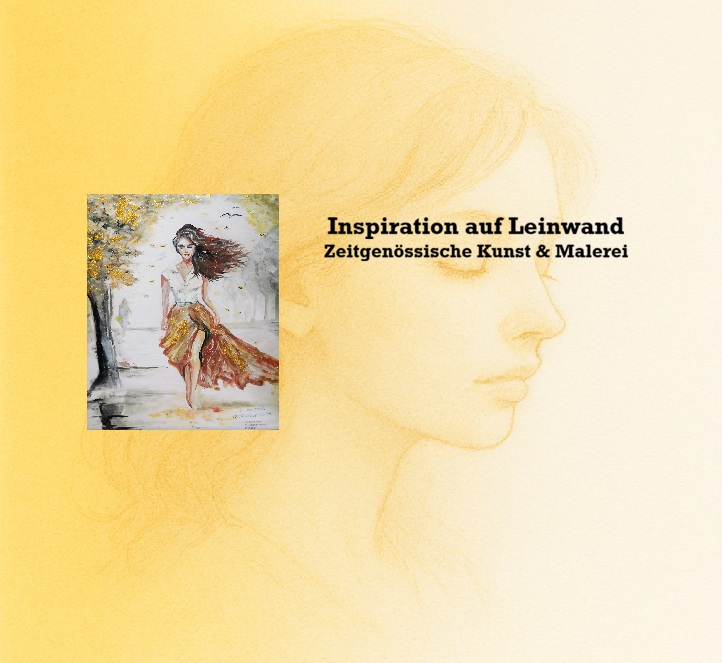
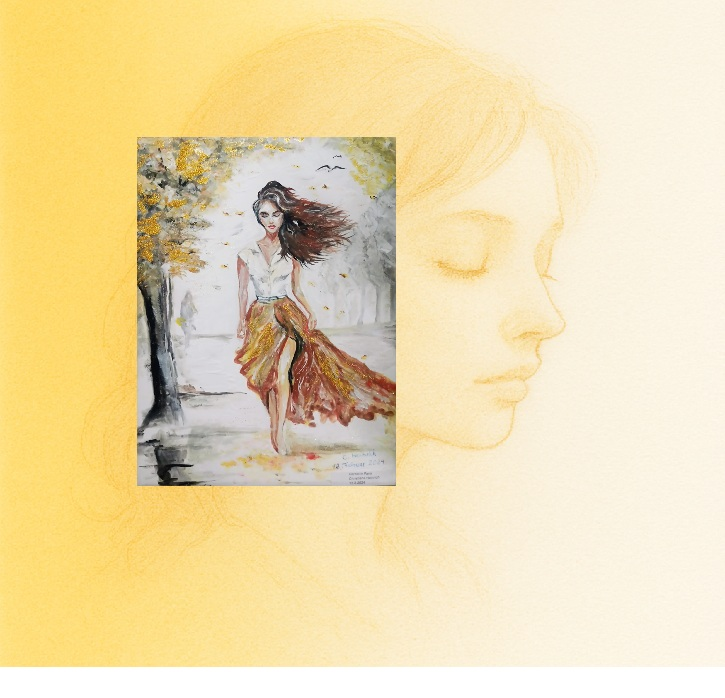
Add files via upload

diff --git a/index.html b/index.html
@@ -5,6 +5,7 @@
     <meta name="viewport" content="width=device-width, initial-scale=1.0">
     <title>Atelier der Farben | Kunstmalerin</title>
     <style>
+	
         /* Grunddesign */
         body {
             font-family: 'Rockwell', Arial, sans-serif;
@@ -54,7 +55,7 @@
             display: flex;
             align-items: center;
             justify-content: center;
-            background: url('Hintergrund_1.jpeg') no-repeat center center;
+            background: url('hintergrund_1.jpeg') no-repeat center center;
             background-size: cover;
             height: 100vh;
             text-align: center;
@@ -65,6 +66,15 @@
             padding: 4rem 2rem;
             max-width: 1000px;
             margin: auto;
+        }
+		
+		h1 {
+			position: absolute;
+			top: 10rem;
+			right: 2rem;
+            font-size: clamp(2rem, 5vw, 4rem);
+			font-weight: bold;    /* fett */
+			color: darkblue;      /* Farbe */
         }
 
         h2 {
@@ -101,7 +111,6 @@
     <nav>
         <div class="logo">Art Design by Christiane Heinrich</div>
         <ul>
-            <li><a href="#portfolio">Portfolio</a></li>
             <li><a href="#ueber-mich">Über mich</a></li>
             <li><a href="#galerie">Galerie</a></li>
             <li><a href="#kontakt">Kontakt</a></li>
@@ -110,20 +119,36 @@
 
     <header>
         <div>
-            <h1></h1>
-            <p></p> 
+            <h1>Inspiration auf Leinwand<br>Zeitgenössische Kunst und Malerei</h1>
         </div>
     </header>
 
-    <section id="portfolio">
-        <h2>Portfolio</h2>
-        <p>Ein Einblick in meine aktuellen Werke und künstlerischen Schwerpunkte.</p>
-    </section>
-
     <section id="ueber-mich">
-        <h2>Über mich</h2>
-        <p>Hier erfährt der Besucher mehr über deinen Werdegang, deinen Stil und was dich als Künstlerin antreibt.</p>
-    </section>
+		<h2>Über mich</h2>		
+		<div class="container">		
+			<img src="che_02.jpeg" alt="Mein Bild" class="bild">
+			<p>
+				Schon als 4 jähriges Kind fing ich mit dem Malen an. 
+				Diese Kunstfertigkeit habe ich mehr und mehr ausbauen können, 
+				so dass schon in frühen Jahren Aufträge für Malarbeiten bekam. 
+				Später fokussierte ich mich mehr auf Landschaftsmalerei und Frauenbilder, 
+				die ich überwiegend mit Acrylfarben ausführte. 
+				Weiterhin interessiert mich aber auch die experimentelle Kunst, 
+				so dass ich auch schon mal Materialien mische. 
+				Auf meinen Ausstellungen sind hauptsächlich meine lustigen Bilder gefragt. 
+				Ich bemale aber auch Hauswände und Garagentore. 
+				Die Malerei ist meine Passion und ich kann mich in ihr mental ausdrücken.
+			</p>
+			<style>
+			.bild {
+				float: left;
+				width: 15rem;
+				margin-right: 2rem;
+				margin-bottom: 1rem;
+			}
+			</style>
+        </div>
+	</section>
 
     <section id="galerie">
         <h2>Galerie</h2>
@@ -151,6 +176,27 @@
         <p>Interesse an einem Werk oder einer Auftragsarbeit? Schreib mir!</p>
         <p>E-Mail: [email redacted]</p>
     </section>
+
+	<section id="impressum">
+		<h2>Impressum</h2>
+
+		<p>
+			<strong>Angaben gemäß § 5 DDG</strong>
+		</p>
+
+		<p>
+			Christiane Heinrich<br>
+			Kunstmalerin<br>
+			Kleinharrier Straße 20<br>
+			24625 Großharrie<br>
+			Deutschland
+		</p>
+
+		<p>
+			E-Mail:
+			<a href="mailto:[email redacted]">[email redacted]</a>
+		</p>
+	</section>
 
     <footer>
         <p>&copy; 2026 Kunstmalerin Christiane Heinrich - Alle Rechte vorbehalten.</p>